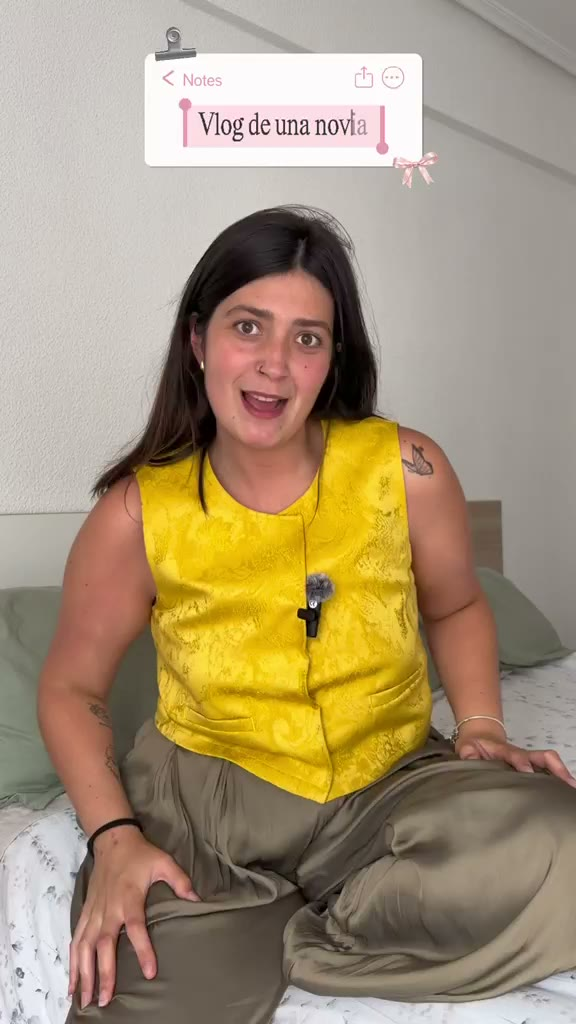
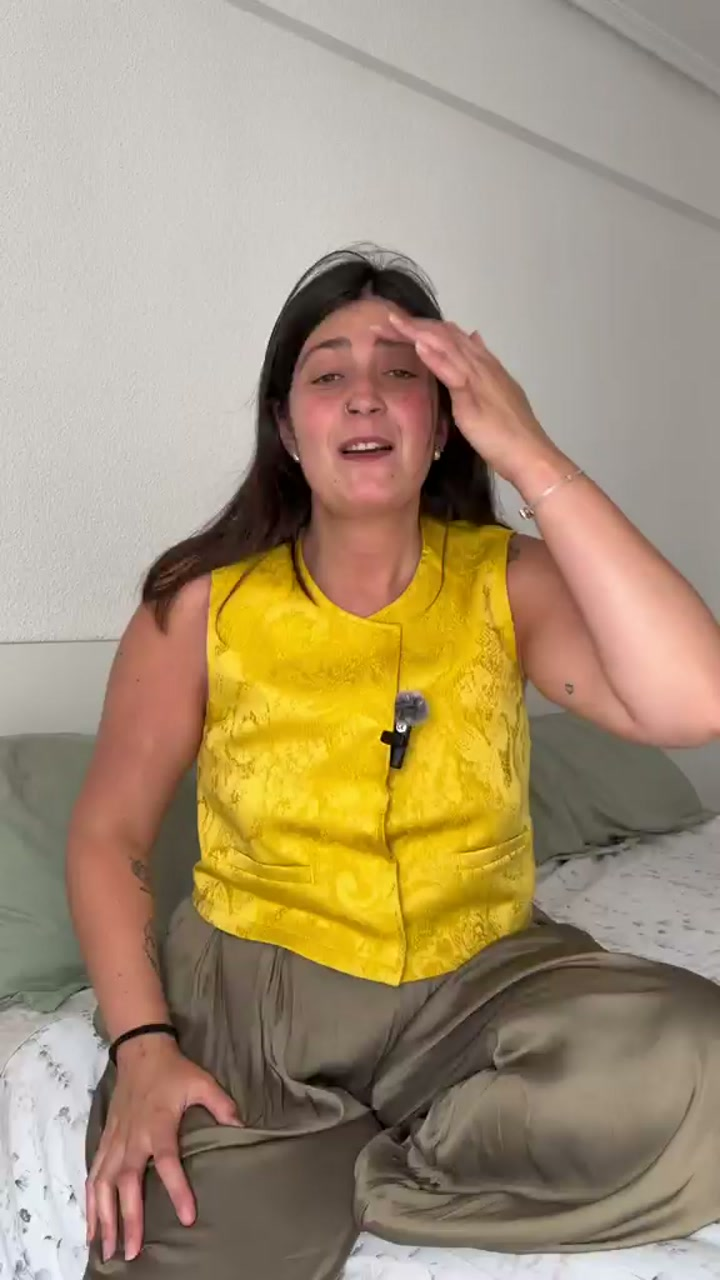
up

diff --git a/src/pages/Index.tsx b/src/pages/Index.tsx
@@ -239,9 +239,6 @@ const Index = () => {
         <div className="section-white reveal-on-scroll">
           <WhyRevelaoSection />
         </div>
-        <div className="section-gray reveal-on-scroll">
-          <Pricing />
-        </div>
         <div className="section-white reveal-on-scroll">
           <section className="py-10 md:py-12 bg-transparent">
             <div className="container px-4 mx-auto">
@@ -279,16 +276,13 @@ const Index = () => {
           </section>
         </div>
         <div className="section-gray reveal-on-scroll">
-          <SocialVideos />
+          <Pricing />
         </div>
         <div className="section-white reveal-on-scroll">
-          <Templates />
-        </div>
-        <div className="section-gray reveal-on-scroll">
           <SuccessStories />
         </div>
-        <div className="section-white reveal-on-scroll">
-          <KpiStrip />
+        <div className="section-gray reveal-on-scroll">
+          <SocialVideos />
         </div>
         <div className="section-white reveal-on-scroll">
           <section className="py-4 md:py-8 bg-transparent scroll-mt-12 md:scroll-mt-14" id="faqs">
@@ -298,6 +292,12 @@ const Index = () => {
               </div>
             </div>
           </section>
+        </div>
+        <div className="section-white reveal-on-scroll">
+          <KpiStrip />
+        </div>
+        <div className="section-white reveal-on-scroll">
+          <Templates />
         </div>
         <div className="section-white reveal-on-scroll">
           <BlogSection />
@@ -318,7 +318,7 @@ const Index = () => {
       </main>
       {exampleModal.open ? (
         <div
-          className="fixed inset-0 z-[100] bg-black/80 backdrop-blur-sm"
+          className="fixed inset-0 z-[20000] bg-black/80 backdrop-blur-sm"
           onClick={closeExampleModal}
         >
           <div className="absolute inset-0 flex flex-col p-4 md:p-6">
@@ -337,14 +337,6 @@ const Index = () => {
                 className="relative h-[85vh] max-h-[852px] w-auto max-w-[95vw] aspect-[393/852]"
                 onClick={(e) => e.stopPropagation()}
               >
-                <button
-                  type="button"
-                  onClick={closeExampleModal}
-                  aria-label="Cerrar modal"
-                  className="absolute -right-4 -top-4 z-20 rounded-full bg-black p-2 text-white shadow-lg hover:bg-black/85"
-                >
-                  <X className="h-4 w-4" />
-                </button>
                 <div className="h-full w-full overflow-hidden rounded-[38px] border-[10px] border-black bg-black shadow-2xl">
                 <iframe
                   src={exampleModal.url}

diff --git a/src/lib/i18n.tsx b/src/lib/i18n.tsx
@@ -142,7 +142,7 @@ export const translations = {
     templates: {
       title: "Plantillas QR",
       subtitle:
-        "Elige un diseño, personalízalo a tu gusto y descárgalo listo para imprimir.",
+        "Elige un diseño, personalízalo a tu gusto y descárgalo o te lo imprimimos nosotros.",
       cta: "Personalizar",
     },
     pricing: {
@@ -425,7 +425,7 @@ export const translations = {
     templates: {
       title: "Custom templates",
       subtitle:
-        "Download QR posters for your event. If you don’t know how, we’ll do it for you for free.",
+        "Choose a design, customize it and download it, or let us print it for you.",
       cta: "Edit",
     },
     pricing: {
@@ -709,7 +709,7 @@ export const translations = {
     templates: {
       title: "Modelli personalizzati",
       subtitle:
-        "Scarica poster QR per il tuo evento. Se non sai come fare, lo facciamo noi gratis.",
+        "Scegli un design, personalizzalo e scaricalo, oppure lo stampiamo noi per te.",
       cta: "Modifica",
     },
     pricing: {

diff --git a/src/components/SuccessStories.tsx b/src/components/SuccessStories.tsx
@@ -88,7 +88,7 @@ export const SuccessStories = () => {
         <div className="mt-8 flex justify-center">
           <Link
             to="/testimonios"
-            className="inline-flex h-11 items-center justify-center gap-2 rounded-full px-6 text-sm font-semibold text-foreground transition-colors hover:text-primary"
+            className="inline-flex h-11 items-center justify-center gap-2 rounded-full border border-border bg-white px-6 text-sm font-semibold text-foreground shadow-sm transition-colors hover:bg-muted"
           >
             Ver más reseñas
             <ArrowRight className="h-4 w-4" aria-hidden="true" />

diff --git a/src/components/SocialVideos.tsx b/src/components/SocialVideos.tsx
@@ -3,14 +3,17 @@ import { useEffect, useRef } from "react";
 const socialVideos = [
   {
     src: "/rrss/testimonio1.mp4",
+    poster: "/rrss/testimonio1-poster.jpg",
     label: "Revelao en redes sociales 1",
   },
   {
     src: "/rrss/testimonio3.mp4",
+    poster: "/rrss/testimonio3-poster.jpg",
     label: "Revelao en redes sociales 3",
   },
   {
     src: "/rrss/testimonio4.mp4",
+    poster: "/rrss/testimonio4-poster.jpg",
     label: "Revelao en redes sociales 4",
   },
   {
